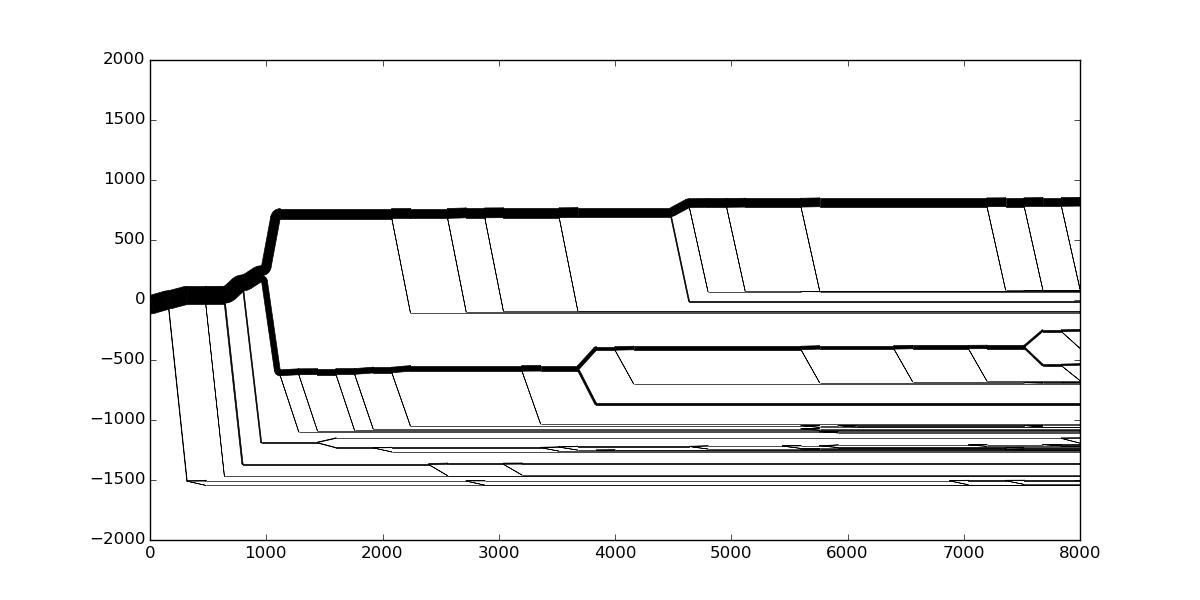
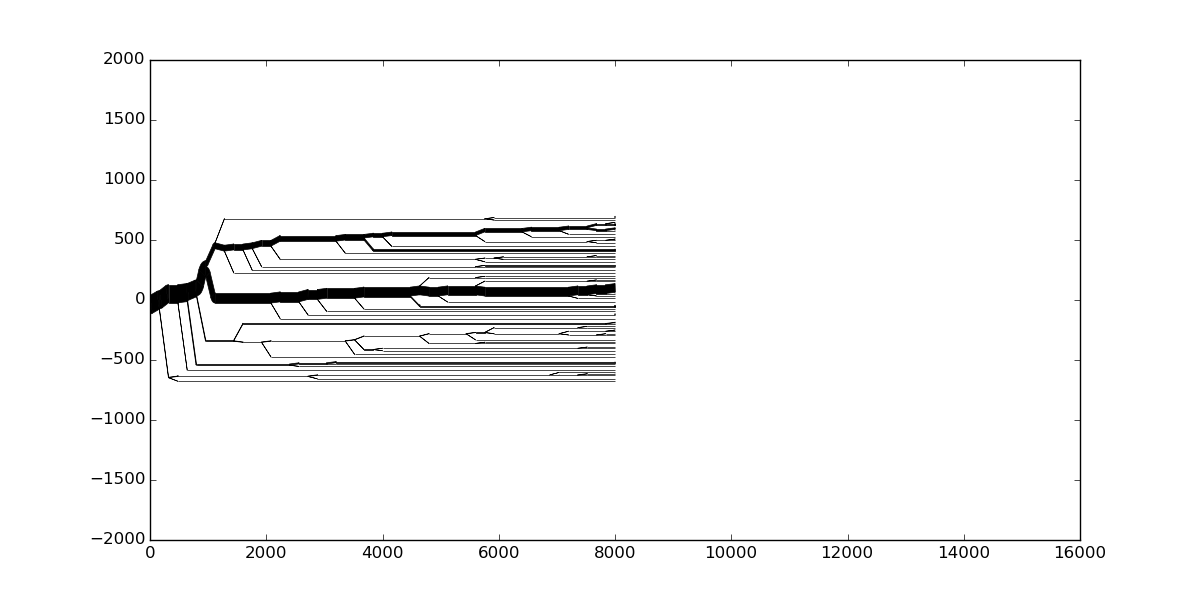
Backcalculate number of splits for spacing

diff --git a/bifurcate.py b/bifurcate.py
@@ -1,58 +1,100 @@
 import drawing
 
 class Node:
-    __slots__ = ('haplos', 'children', 'distance', 'delta_y', 'post_nonsplit')
+    __slots__ = ('haplos', 'children', 'parent', 'distance', 'delta_y', 'post_nonsplit', 'splits')
 
-    def __init__(self, haplos, children=(), distance=0, delta_y=0, post_nonsplit=False):
+    def __init__(self, haplos, children=(), parent=None, distance=0, delta_y=0, post_nonsplit=False):
         self.haplos = haplos
         self.children = children
+        self.parent = parent
         self.distance = distance
         self.delta_y = delta_y
         self.post_nonsplit = post_nonsplit
+        self.splits = -1
 
     def __repr__(self):
         return 'h:' + str(self.haplos) + ' d:' + str(self.distance) + ' y:' + str(self.delta_y) + ' c:' + str(
             len(self.children)) + '(' + ','.join(map(repr, self.children)) + ')'
 
-def tree(matrix):
-    # First dim is variants
-    nodes = (Node(list(range(matrix.shape[1]))),)
-    new_nodes = nodes
 
-    for i_var in range(matrix.shape[0]):
-        nodes_todo = []
-        calls = matrix[i_var]
-        for node in new_nodes:
-            separation = {}
-            for j_hap in node.haplos:
-                val = calls[j_hap]
-                separation.setdefault(val, []).append(j_hap)
-            node.distance += 1
-            if len(separation) > 1:
-                if len(separation[0]) < len(separation[1]):
-                    separation[0], separation[1] = separation[1], separation[0]
-                # top down - len_0 is on top
-                len_p = len(node.haplos)
-                len_0 = len(separation[0])
-                len_1 = len(separation[1])
-                mid = len_p - (2 * len_0)
-                node.children = (
-                    Node(separation[0], delta_y=mid + len_0),
-                    Node(separation[1], delta_y=mid - len_1)
-                )
-                node.haplos = len(node.haplos)
-                nodes_todo += node.children
-            else:
-                if (not node.post_nonsplit) and node.distance == 1:
-                    new_node = Node(node.haplos, delta_y=0, post_nonsplit=True)
-                    node.children = (new_node,)
+class Tree:
+    def __init__(self, matrix):
+        self.matrix = matrix
+        self.root_node = None
+        self.nodes = []
+        self.leaf_nodes = []
+        self.create_tree()
+
+    def create_tree(self):
+        # First dim is variants
+        self.nodes = []
+        self.root_node = Node(list(range(self.matrix.shape[1])))
+        new_nodes = [self.root_node]
+        self.nodes = []
+        for i_var in range(self.matrix.shape[0]):
+            nodes_todo = []
+            calls = self.matrix[i_var]
+            for node in new_nodes:
+                separation = {}
+                for j_hap in node.haplos:
+                    val = calls[j_hap]
+                    separation.setdefault(val, []).append(j_hap)
+                node.distance += 1
+                if len(separation) > 1:
+                    node.children = (
+                        Node(separation[0], parent=node),
+                        Node(separation[1], parent=node)
+                    )
+                    self.nodes += node.children
                     node.haplos = len(node.haplos)
-                    nodes_todo.append(new_node)
+                    nodes_todo += node.children
                 else:
-                    nodes_todo.append(node)
+                    if (not node.post_nonsplit) and node.distance == 1:
+                        new_node = Node(node.haplos, parent=node, post_nonsplit=True)
+                        node.children = (new_node,)
+                        node.haplos = len(node.haplos)
+                        nodes_todo.append(new_node)
+                        self.nodes.append(new_node)
+                    else:
+                        nodes_todo.append(node)
 
-        new_nodes = nodes_todo
-    for node in new_nodes:
-        node.haplos = len(node.haplos)
-    return nodes
+            new_nodes = nodes_todo
+        for node in new_nodes:
+            node.haplos = len(node.haplos)
+        self.leaf_nodes = [node for node in self.nodes if not node.children]
+
+    def arrange_y(self, sample_width, split_width):
+        nodes_todo = []
+        for node in self.leaf_nodes:
+            node.splits = 1
+            if node.parent:
+                nodes_todo.append(node.parent)
+        while nodes_todo:
+            node = nodes_todo.pop(0)
+            if node.parent:
+                nodes_todo.append(node.parent)
+            if all(c.splits != -1 for c in node.children):
+                if len(node.children) > 1:
+                    node.splits = 1+sum(n.splits for n in node.children)
+                else:
+                    node.splits = node.children[0].splits
+
+        nodes_todo = [self.root_node]
+        while nodes_todo:
+            node = nodes_todo.pop()
+            nodes_todo += node.children
+            if node.children:
+                if len(node.children) > 1:
+                    len_p = node.haplos*sample_width + node.splits*split_width
+                    len_0 = node.children[0].haplos*sample_width + node.children[0].splits*split_width
+                    len_1 = node.children[1].haplos*sample_width + node.children[1].splits*split_width
+                    mid = len_p/2 - (len_0)
+                    node.children[0].delta_y=mid + len_0/2
+                    node.children[1].delta_y=mid - len_1/2
+
+
+
+
+
+
 

diff --git a/test.py b/test.py
@@ -3,7 +3,7 @@ from matplotlib import patches
 import matplotlib.pyplot as plt
 import numpy as np
 import sys
-from bifurcate import tree, Node
+from bifurcate import Tree, Node
 from drawing import Drawing, draw
 import pprint
 
@@ -37,18 +37,19 @@ test_data = (
 #draw(d, 0, 0, 0, 10, 0, 0, test_data)
 
 
-mat = np.load('haplotypes.npy')[:500, :]
+mat = np.load('haplotypes.npy')[:50, :]
 print(mat)
 print(mat.shape)
 
-tree = tree(mat)
+tree = Tree(mat)
+tree.arrange_y(0.1, 10)
 d = Drawing(facecolor='black', lw=0.5)
-draw(d, 0, 0, 0, float(mat.shape[1])/20, 0, 0, tree)
+draw(d, 0, 0, 0, float(mat.shape[1])/20, 0, 0, [tree.root_node])
 
 fig = plt.figure(figsize=(12,6), dpi=800)
 ax = fig.add_subplot(111)
 ax.set_ylim(-2000, 2000)
-ax.set_xlim(0, 8000)
+ax.set_xlim(0, 16000)
 for patch in d.patches:
     ax.add_patch(patch)
 plt.savefig('bah.png')

diff --git a/drawing.py b/drawing.py
@@ -2,6 +2,14 @@ from math import sqrt, asin, degrees, atan2
 from matplotlib import patches
 from matplotlib.path import Path
 
+def get_ax_size(ax):
+    fig = ax.get_figure()
+    bbox = ax.get_window_extent().transformed(fig.dpi_scale_trans.inverted())
+    width, height = bbox.width, bbox.height
+    width *= fig.dpi
+    height *= fig.dpi
+    return width, height
+
 class Point:
     __slots__ = ('x', 'y')
 
@@ -203,7 +211,7 @@ def draw(d, x, y, y_offset, width, delta_x, delta_y, children):
 
     top = width
     for c in children:
-        child_width = float(c.haplos) / 10
+        child_width = float(c.haplos)/10
         top -= child_width  # (haplos = width)
         draw(d, x + delta_x, y + delta_y, top + (child_width / 2) - (width / 2), child_width, c.distance * 160,
              c.delta_y,
